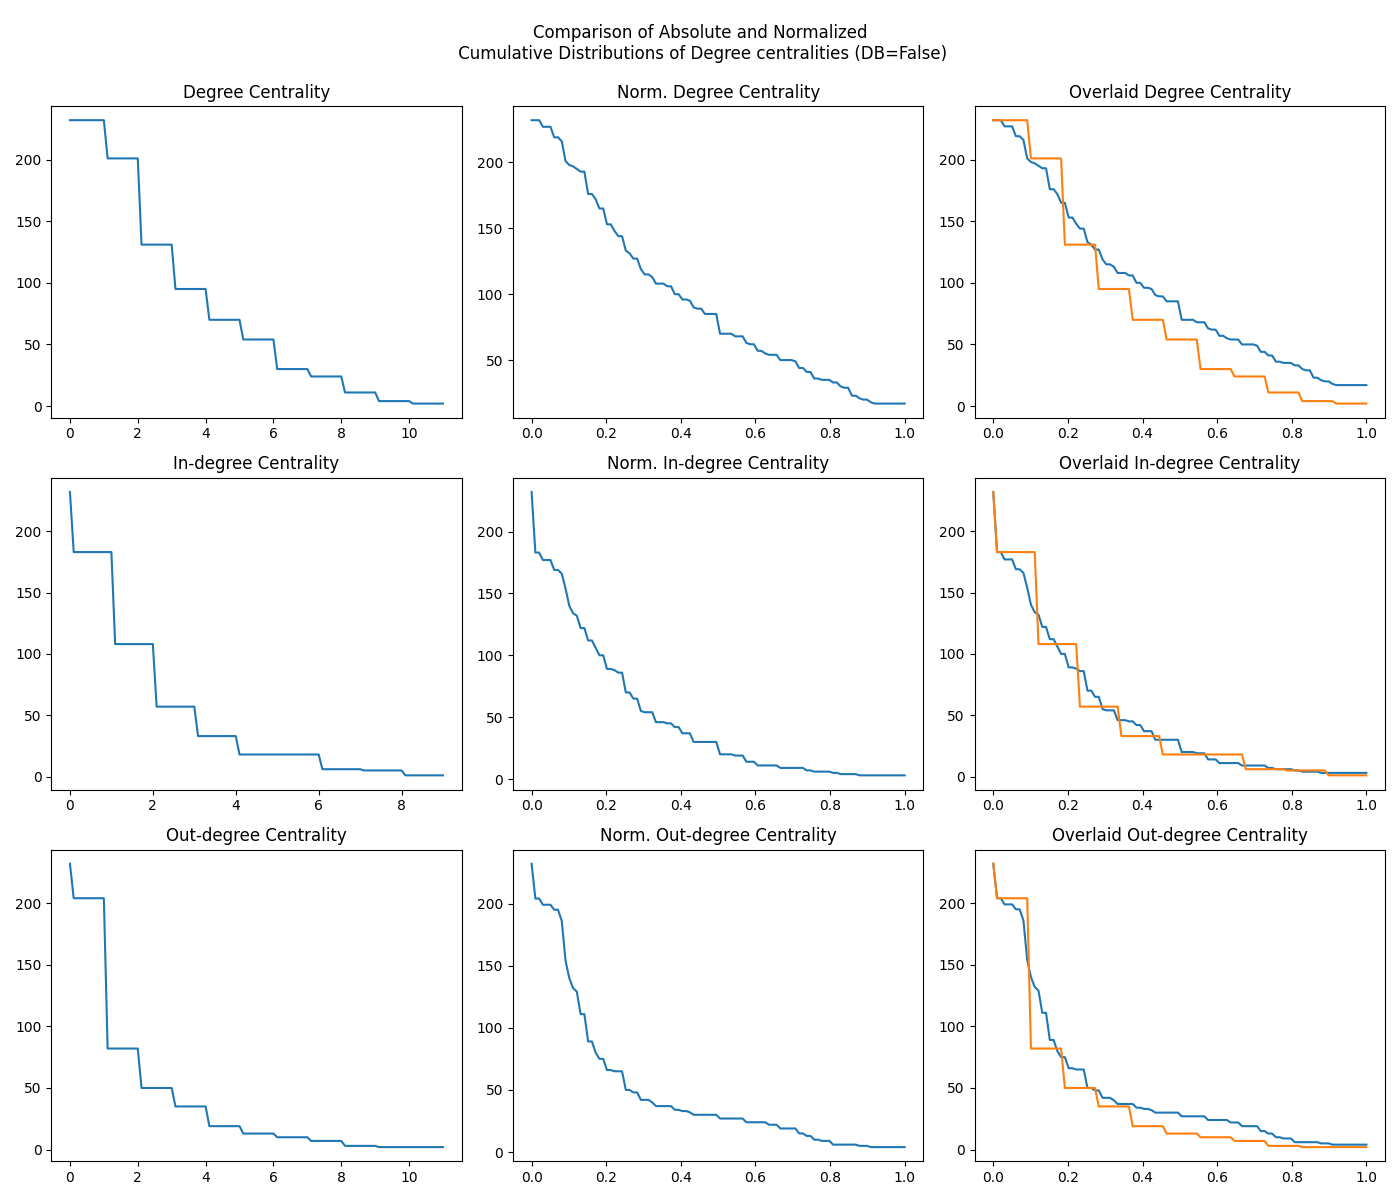
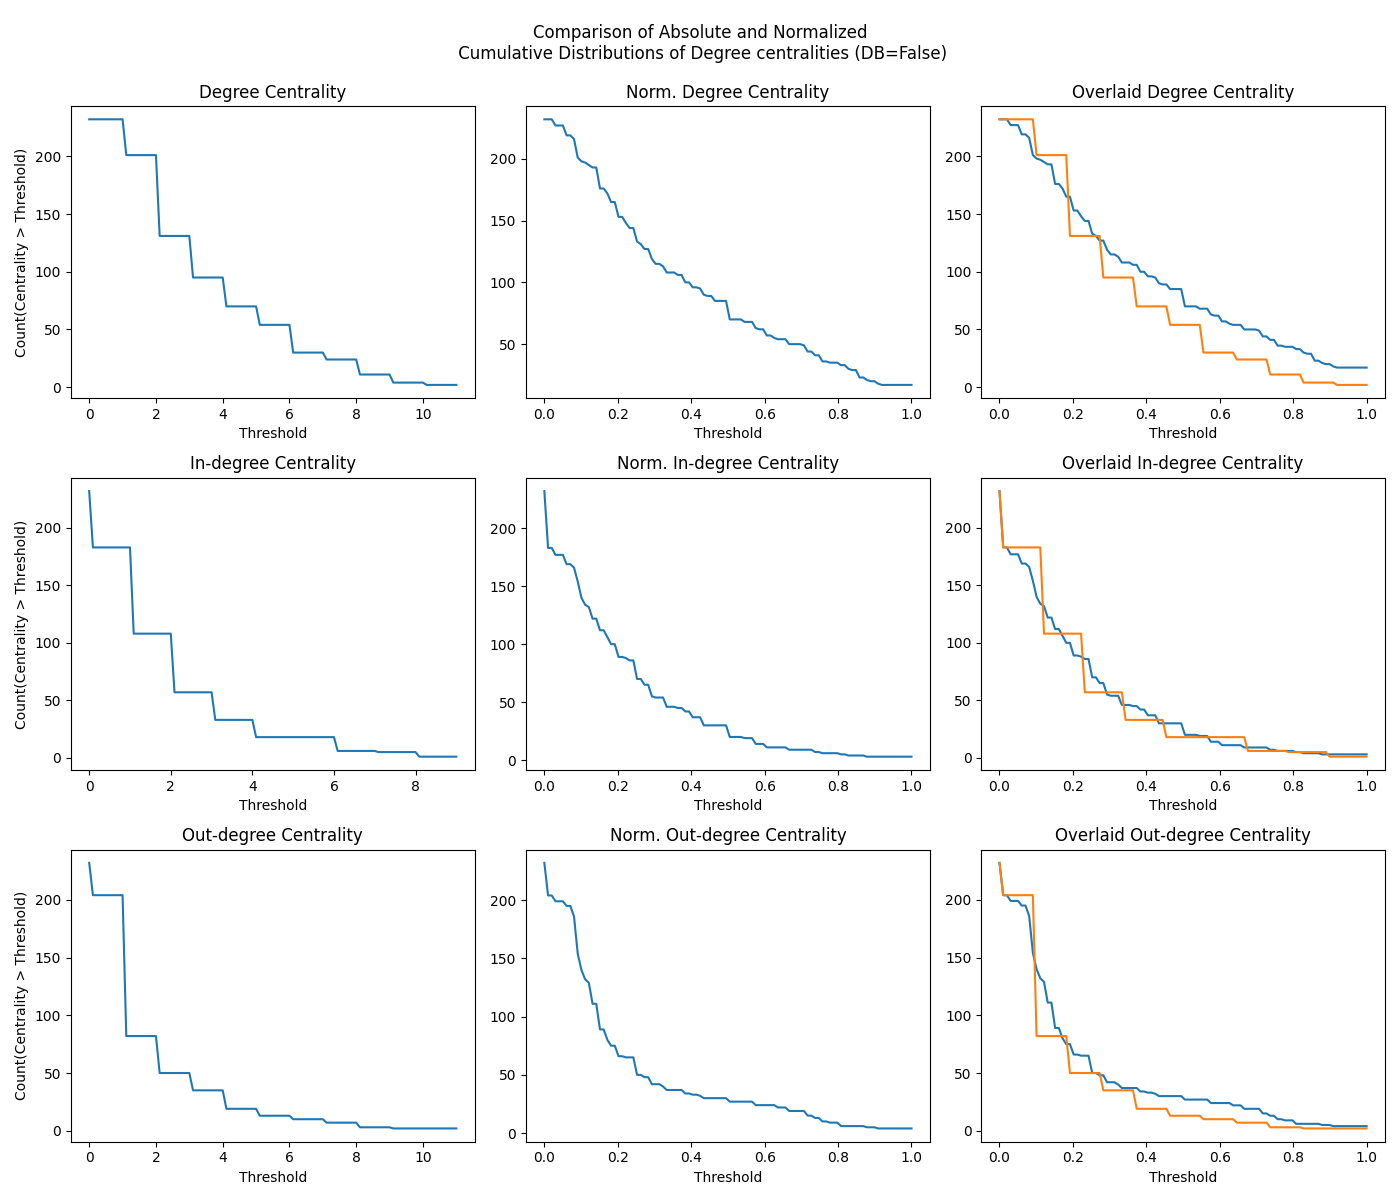
add: axis labels

diff --git a/figures.py b/figures.py
@@ -24,33 +24,45 @@ def plot_centrality_dist(metrics, DB: bool):
     plt.figure(figsize=(14,12))
     plt.subplot(331)
     plt.plot(deg_dist[0], deg_dist[1])
+    plt.xlabel("Threshold")
+    plt.ylabel("Count(Centrality > Threshold)")
     plt.title("Degree Centrality")
     plt.subplot(332)
     plt.plot(norm_deg_dist[0], norm_deg_dist[1])
+    plt.xlabel("Threshold")
     plt.title("Norm. Degree Centrality")
     plt.subplot(333)
     plt.plot(norm_deg_dist[0], norm_deg_dist[1])
     plt.plot(norm_deg_dist[0], deg_dist[1])
+    plt.xlabel("Threshold")
     plt.title("Overlaid Degree Centrality")
     plt.subplot(334)
     plt.plot(in_deg_dist[0], in_deg_dist[1])
+    plt.xlabel("Threshold")
+    plt.ylabel("Count(Centrality > Threshold)")
     plt.title("In-degree Centrality")
     plt.subplot(335)
     plt.plot(norm_in_deg_dist[0], norm_in_deg_dist[1])
+    plt.xlabel("Threshold")
     plt.title("Norm. In-degree Centrality")
     plt.subplot(336)
     plt.plot(norm_in_deg_dist[0], norm_in_deg_dist[1])
     plt.plot(norm_in_deg_dist[0], in_deg_dist[1])
+    plt.xlabel("Threshold")
     plt.title("Overlaid In-degree Centrality")
     plt.subplot(337)
     plt.plot(out_deg_dist[0], out_deg_dist[1])
+    plt.xlabel("Threshold")
+    plt.ylabel("Count(Centrality > Threshold)")
     plt.title("Out-degree Centrality")
     plt.subplot(338)
     plt.plot(norm_out_deg_dist[0], norm_out_deg_dist[1])
+    plt.xlabel("Threshold")
     plt.title("Norm. Out-degree Centrality")
     plt.subplot(339)
     plt.plot(norm_out_deg_dist[0], norm_out_deg_dist[1])
     plt.plot(norm_out_deg_dist[0], out_deg_dist[1])
+    plt.xlabel("Threshold")
     plt.title("Overlaid Out-degree Centrality")
     plt.suptitle(f"Comparison of Absolute and Normalized\n Cumulative Distributions of Degree centralities (DB={DB})\n")
     plt.tight_layout()
@@ -59,18 +71,25 @@ def plot_centrality_dist(metrics, DB: bool):
     plt.figure(figsize=(15,8))
     plt.subplot(231)
     plt.plot(norm_deg_dist[0], norm_deg_dist[1])
+    plt.xlabel("Threshold")
+    plt.ylabel("Count(Centrality > Threshold)")
     plt.title("Norm. Degree Centrality")
     plt.subplot(232)
     plt.plot(norm_in_deg_dist[0], norm_in_deg_dist[1])
+    plt.xlabel("Threshold")
     plt.title("Norm. In-degree Centrality")
     plt.subplot(233)
     plt.plot(norm_out_deg_dist[0], norm_out_deg_dist[1])
+    plt.xlabel("Threshold")
     plt.title("Norm. Out-degree Centrality")
     plt.subplot(234)
     plt.plot(bet_dist[0], bet_dist[1])
+    plt.xlabel("Threshold")
+    plt.ylabel("Count(Centrality > Threshold)")
     plt.title("Betweenness Centrality")
     plt.subplot(235)
     plt.plot(eig_dist[0], eig_dist[1])
+    plt.xlabel("Threshold")
     plt.title("Eigenvector Centrality")
     plt.suptitle(f"Cumulative distributions of centrality metrics (DB={DB})")
     plt.tight_layout()
